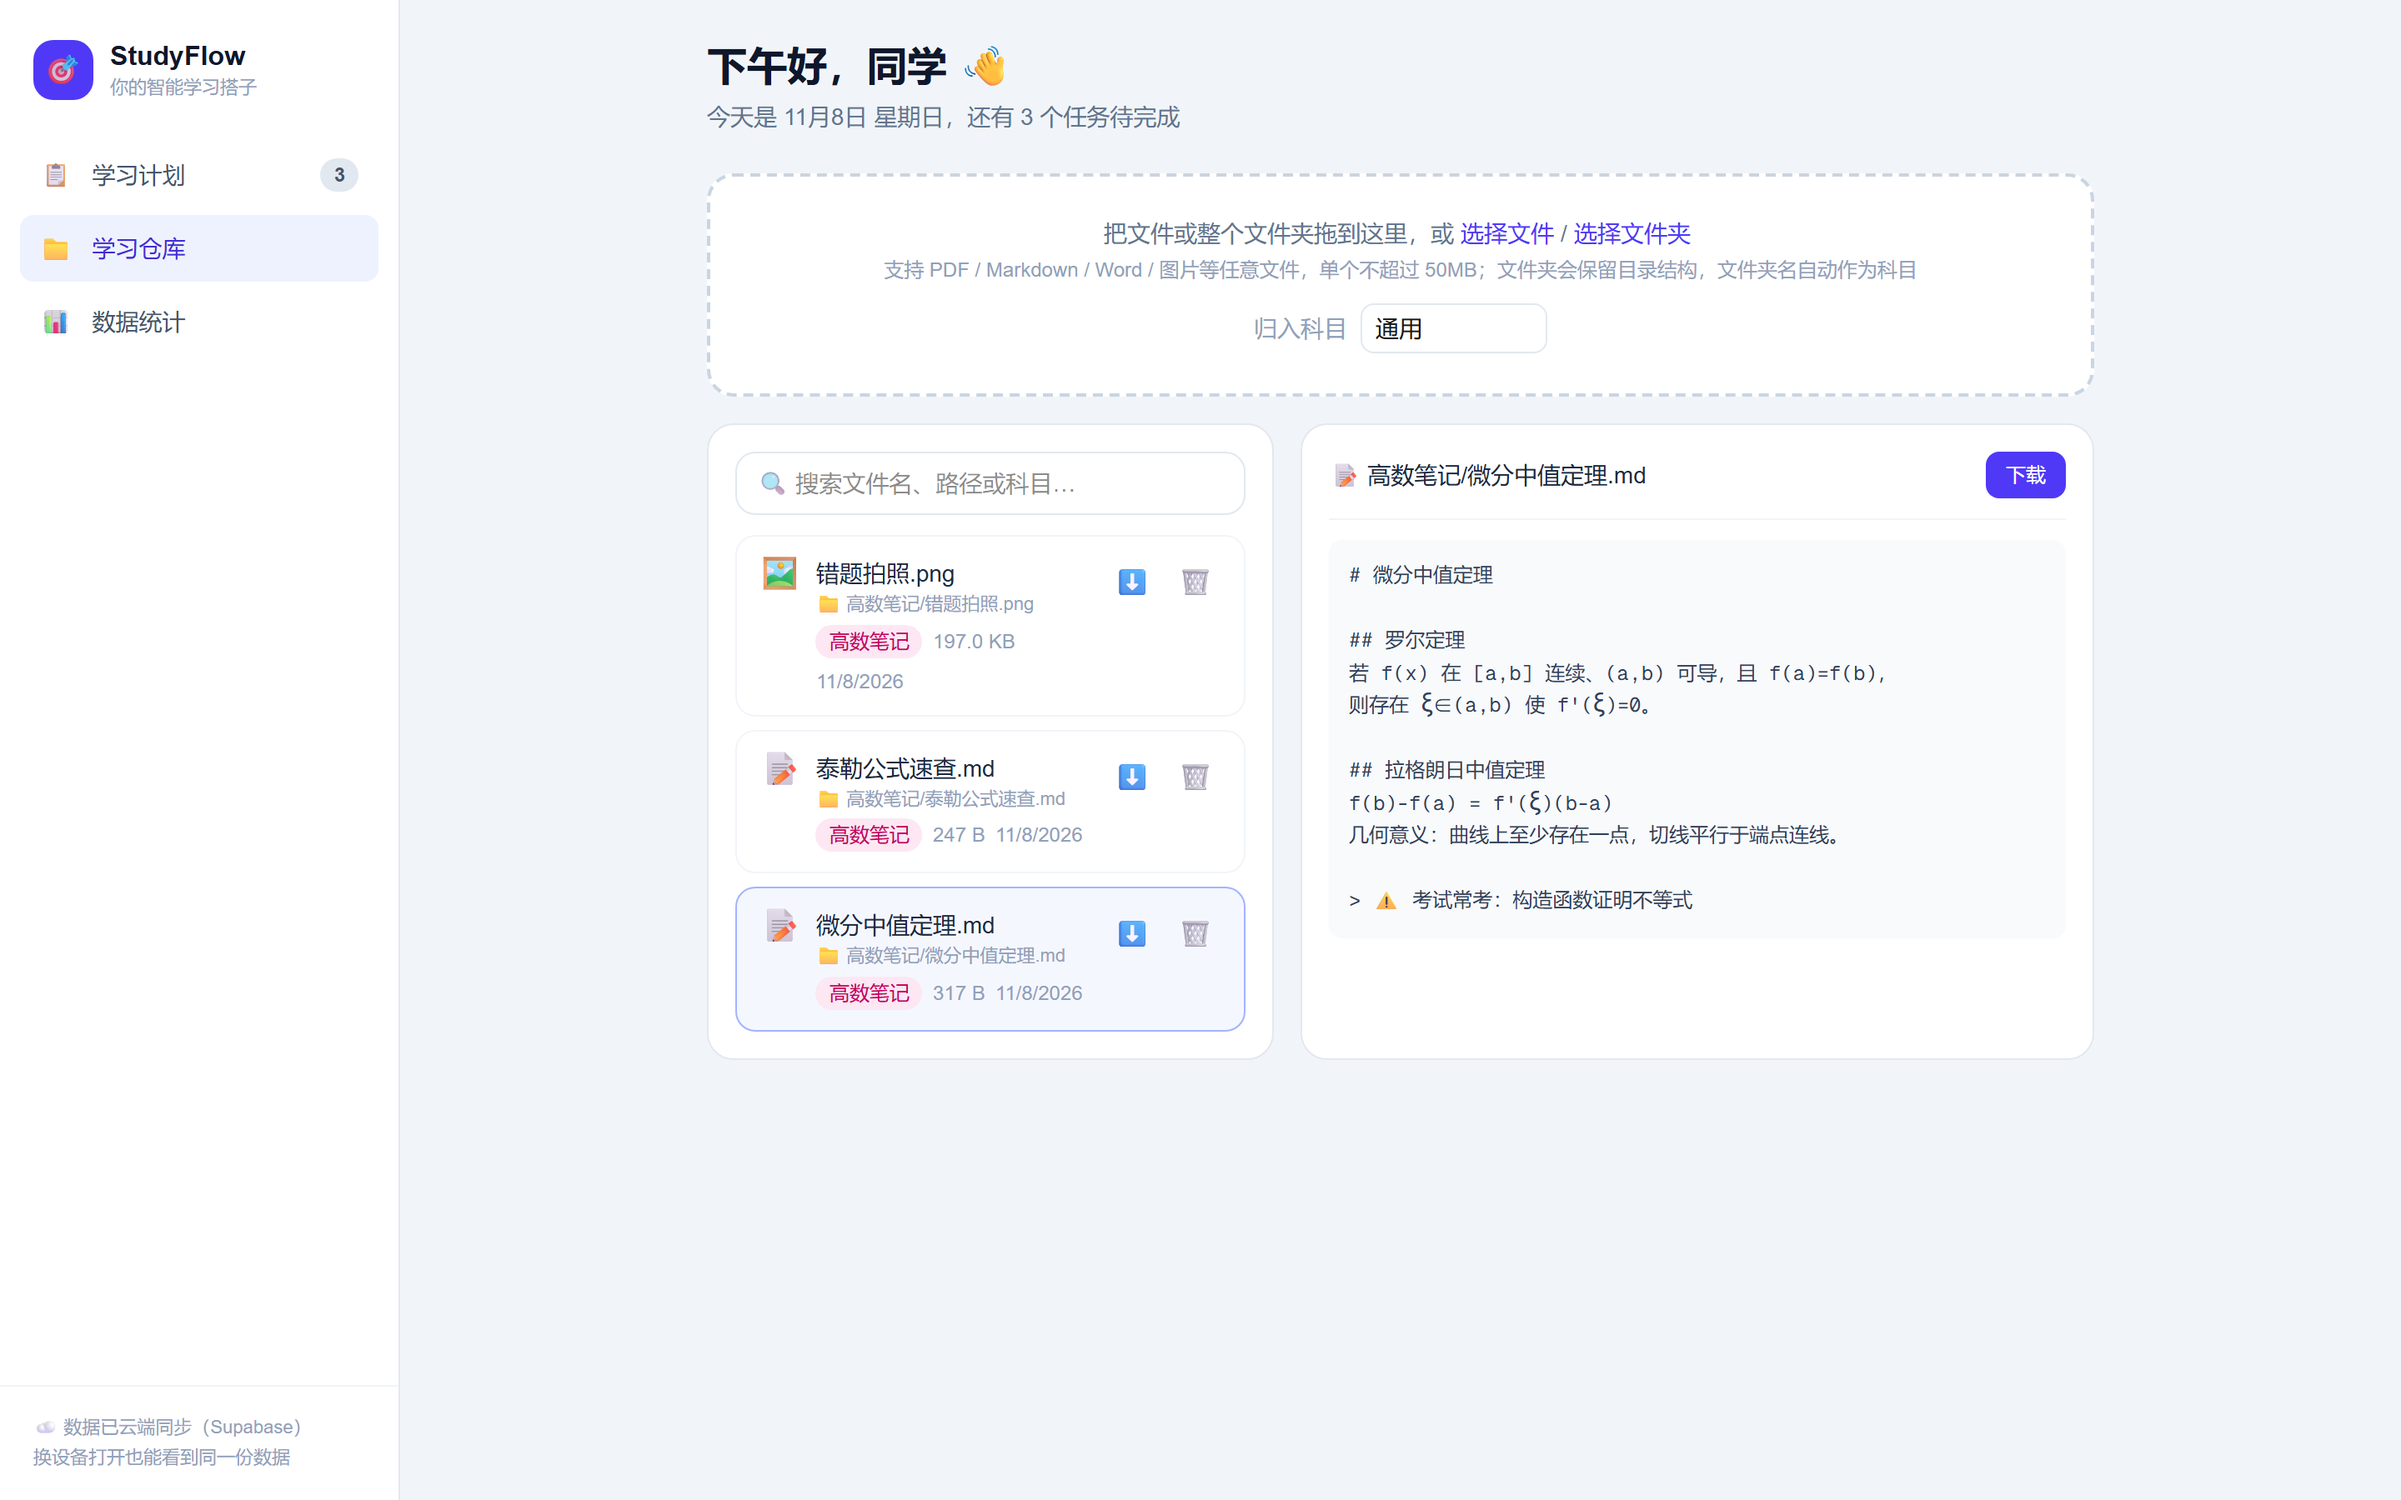
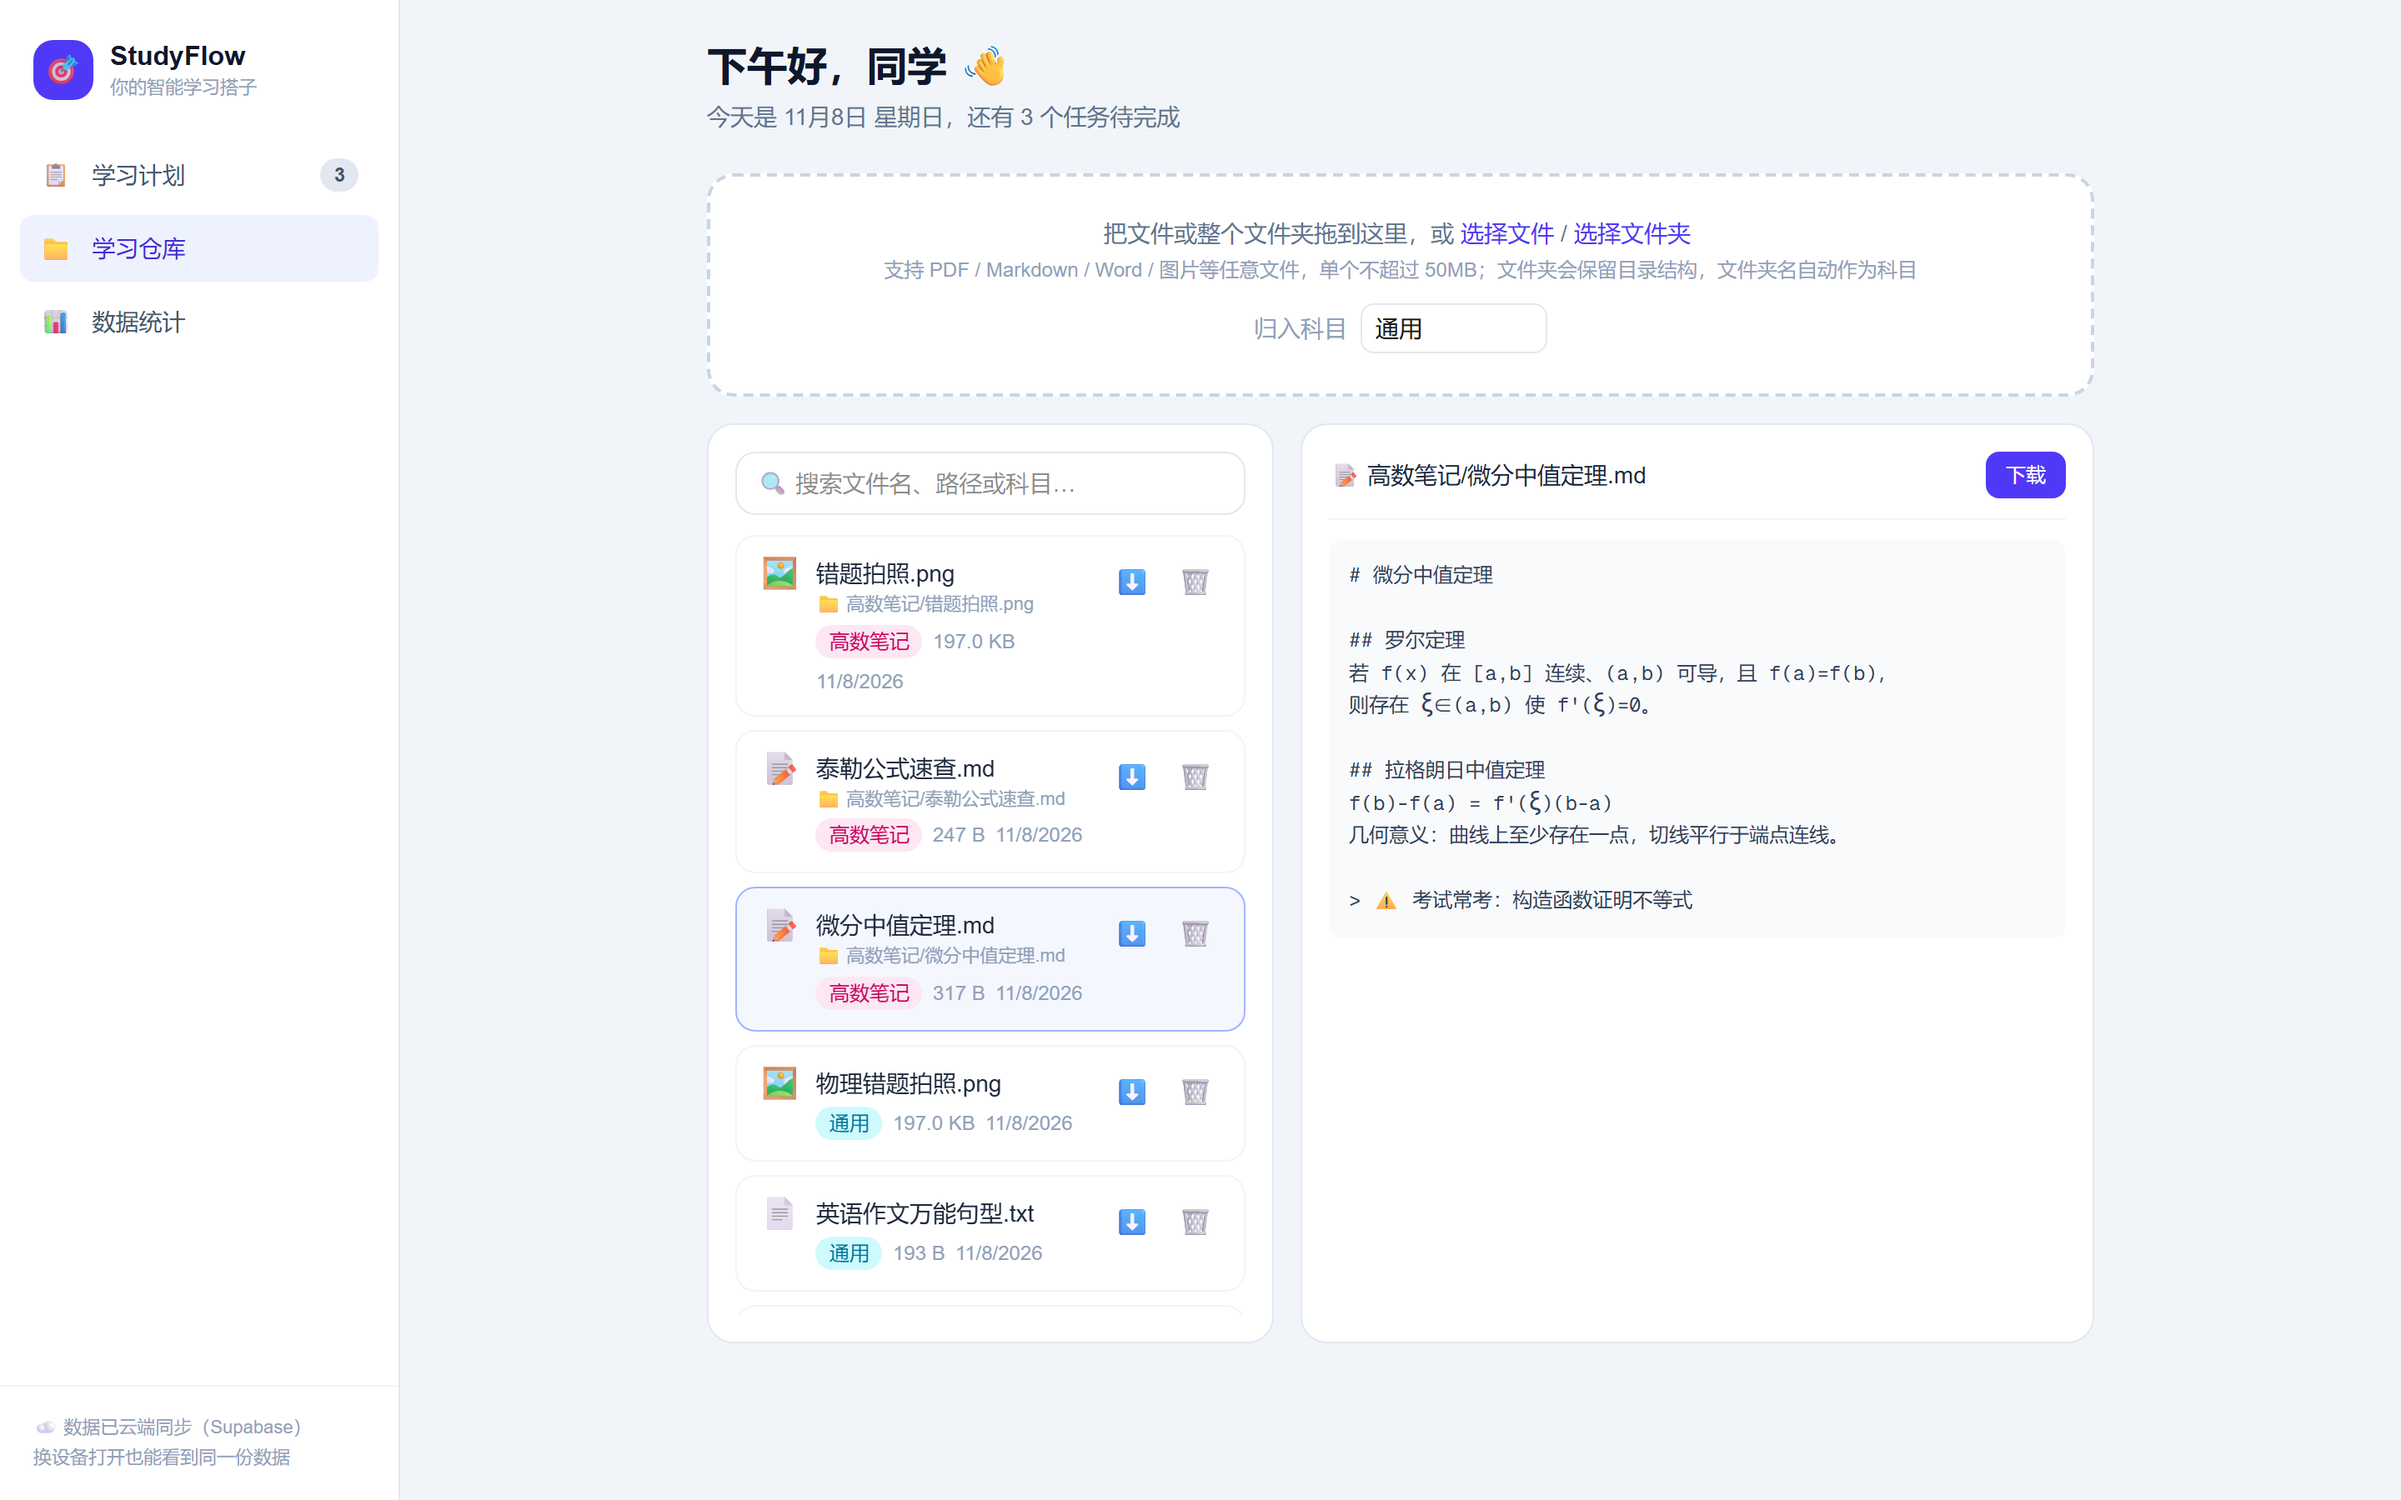
docs: v0.7 云端后端开发日志 + README + 截图

diff --git a/README.md b/README.md
@@ -4,28 +4,34 @@
 
 一个帮学生管理学习计划的小网站：添加任务后自动识别重要程度（高/中/低），按紧急程度排序，并给出今日优先建议。
 
-![StudyFlow](docs/screenshots/v0.4-dashboard-plan.png)
+![StudyFlow](docs/screenshots/v0.7-plan.png)
 
 ## ✨ 功能
 
 - **智能优先级识别**：根据截止日远近 + 任务关键词（考试/论文/作业等）自动标注 高/中/低 优先级，录入时实时预览
 - **学习计划管理**：任务标题、科目、截止日期（可选精确到几时几分）、完成勾选、删除
 - **今日优先建议**：自动挑出最该先做的任务
-- **学习仓库**：上传存放笔记文件（PDF / Markdown / 错题照片等），支持单文件与**整个文件夹**拖拽上传（保留目录结构）、科目分类、搜索、在线预览与下载，文件保存在浏览器 IndexedDB
+- **学习仓库**：上传存放笔记文件（PDF / Markdown / 错题照片等），支持单文件与**整个文件夹**拖拽上传（保留目录结构）、科目分类、搜索、在线预览与下载
+- **云端同步**：任务与文件实时同步 Supabase 云端，清缓存、换设备数据不丢；本地优先策略，断网也能正常用
 - **数据统计**：待办数、完成率、24h 内截止提醒、优先级分布、近 7 天完成任务趋势
 - **侧边栏仪表盘 UI**：桌面端侧边栏导航，移动端自适应
-- **本地持久化**：数据保存在浏览器 localStorage，无需注册、无需后端
 
 ## 🛠 技术栈
 
 - Next.js 16（App Router + Turbopack + Cache Components）
 - React 19 + TypeScript
 - Tailwind CSS 4
+- Supabase（PostgreSQL + Storage，云端持久化）
 
 ## 🚀 本地运行
 
 ```bash
 npm install
+# 配置云端后端（可选，不配置则退化为纯本地模式）：
+# 1. 在 Supabase 控制台 SQL Editor 执行 docs/supabase-setup.sql
+# 2. 新建 .env.local，填入：
+#    NEXT_PUBLIC_SUPABASE_URL=你的项目URL
+#    NEXT_PUBLIC_SUPABASE_ANON_KEY=你的anon key
 npm run dev
 ```
 
@@ -33,7 +39,7 @@ npm run dev
 
 ## 📖 开发日志
 
-完整迭代过程（v0.1 → v0.4，含每版截图与改动说明）见 [docs/DEVLOG.md](docs/DEVLOG.md)。
+完整迭代过程（v0.1 → v0.7，含每版截图与改动说明）见 [docs/DEVLOG.md](docs/DEVLOG.md)。
 
 ```bash
 # 回看任意历史版本
@@ -42,6 +48,7 @@ git checkout v0.2   # 智能优先级
 git checkout v0.3   # 截止时间精确到分
 git checkout v0.4   # 侧边栏仪表盘
 git checkout v0.5   # 学习仓库-笔记模块
-git checkout v0.6   # 学习仓库重做为文件仓库（当前）
+git checkout v0.6   # 学习仓库重做为文件仓库
+git checkout v0.7   # 接入 Supabase 云端后端（当前）
 npm run dev
 ```

diff --git a/docs/DEVLOG.md b/docs/DEVLOG.md
@@ -13,6 +13,7 @@
 | v0.4 | UI 改版：侧边栏仪表盘 | [计划视图](screenshots/v0.4-dashboard-plan.png) · [统计视图](screenshots/v0.4-dashboard-stats.png) |
 | v0.5 | 新增学习仓库（笔记模块） | [计划视图](screenshots/v0.5-plan.png) · [笔记视图](screenshots/v0.5-notes.png) |
 | v0.6 | 学习仓库重做：改为文件仓库（上传/预览/下载） | [计划视图](screenshots/v0.6-plan.png) · [仓库视图](screenshots/v0.6-repo.png) |
+| v0.7 | 接入 Supabase 云端后端（任务/文件云同步） | [计划视图](screenshots/v0.7-plan.png) · [仓库视图](screenshots/v0.7-repo.png) |
 
 ---
 
@@ -106,6 +107,32 @@
 - 存储方案：文件内容（Blob）存 **IndexedDB**（localStorage 存不下大文件），元信息仍走 localStorage；v0.5 的 notes 旧数据自动忽略
 
 ![v0.6 仓库视图](screenshots/v0.6-repo.png)
+
+---
+
+## v0.7 — 接入 Supabase 云端后端
+
+**动机**：v0.6 的文件存在浏览器 IndexedDB，清缓存/换设备就丢。黑客松演示可能换电脑，需要真正的"记忆"——云端持久化。
+
+**改动**：
+- 接入 **Supabase**（PostgreSQL + Storage）：任务和文件元数据存数据库表，文件内容存 Storage 存储桶
+- 同步策略：**本地优先**——localStorage 秒开首屏，后台拉取云端数据（云端为准）；每次变更同时写本地和云端，断网也能用
+- 首次接入自动迁移：本地旧数据（任务、v0.6 的文件）自动上传云端，用户无感
+- 并发防护：云端写操作串行队列化（upsert 与 delete 交错会互相覆盖，开发期实测踩过这个坑）
+- 降级设计：未配置 Supabase 环境变量时自动退化为纯本地模式
+- 建表脚本沉淀为 [supabase-setup.sql](supabase-setup.sql)，一键复现后端
+
+**架构**：
+
+```
+浏览器 React 状态
+   ├─ localStorage（首屏缓存，秒开）
+   └─ Supabase（云端真实来源）
+        ├─ tasks / repo_files 表（元数据）
+        └─ repo-files 存储桶（文件内容）
+```
+
+![v0.7 仓库视图](screenshots/v0.7-repo.png)
 
 ---
 
